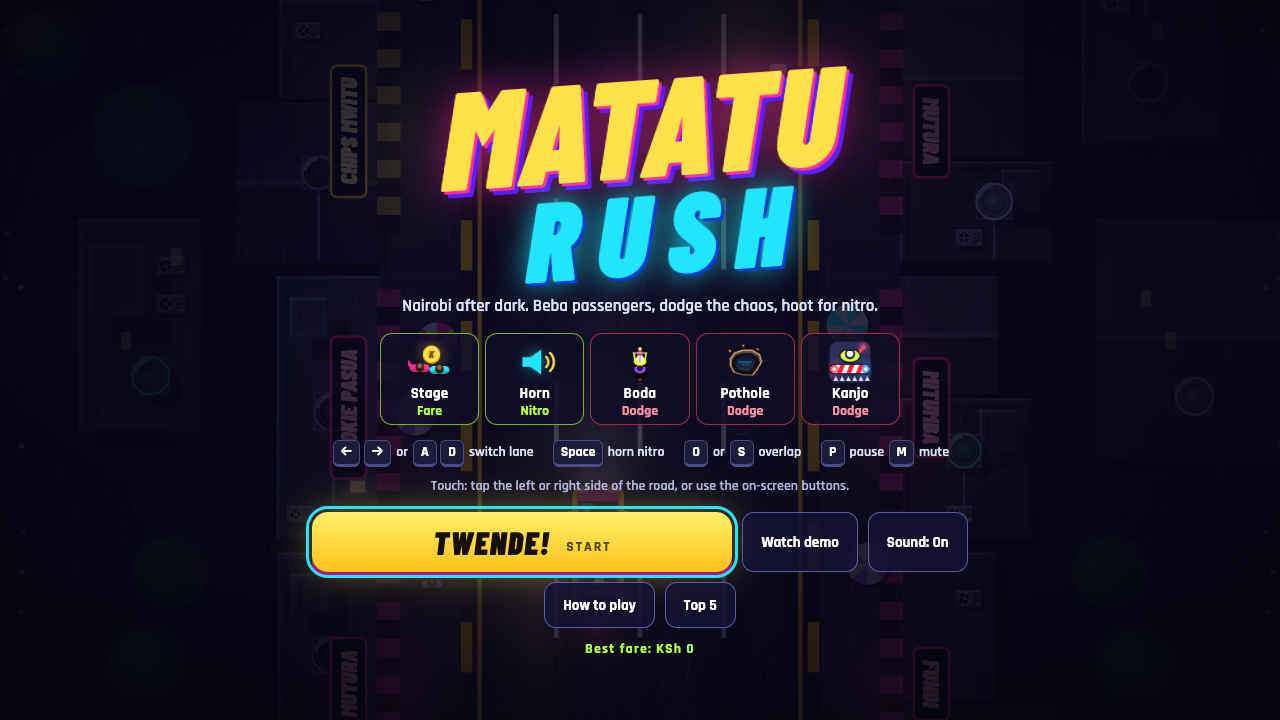
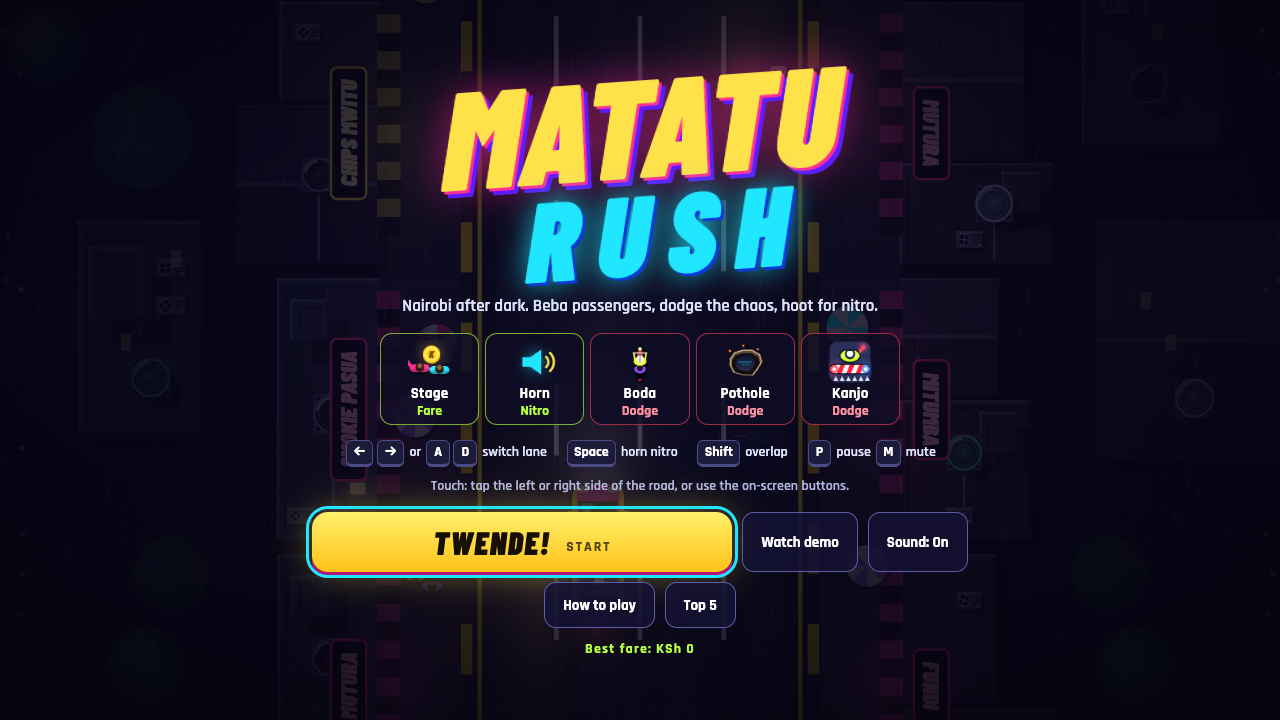
checkpoint: auto-backup 2026-11-19 11:38

diff --git a/index.html b/index.html
@@ -54,7 +54,7 @@
   <button id="btnOverlap" class="ovl" type="button" aria-label="Overlap charging">
     <i id="ovlFill"></i>
     <span id="ovlLbl" class="hl">OVERLAP</span>
-    <kbd>O</kbd>
+    <kbd>SHIFT</kbd>
   </button>
   <button id="btnRight" class="pad" type="button" aria-label="Move one lane right">
     <kbd>D</kbd><svg viewBox="0 0 24 24" aria-hidden="true"><path d="M9 4l9 8-9 8z"/></svg>
@@ -75,7 +75,7 @@
     <div class="keys" aria-label="Controls">
       <p><kbd>&larr;</kbd><kbd>&rarr;</kbd> or <kbd>A</kbd><kbd>D</kbd> switch lane</p>
       <p><kbd>Space</kbd> horn nitro</p>
-      <p><kbd>O</kbd> or <kbd>S</kbd> overlap</p>
+      <p><kbd>Shift</kbd> overlap</p>
       <p><kbd>P</kbd> pause <kbd>M</kbd> mute</p>
       <p class="touch">Touch: tap the left or right side of the road, or use the on-screen buttons.</p>
     </div>
@@ -104,7 +104,7 @@
     <div class="keys" aria-label="Controls">
       <p><kbd>&larr;</kbd><kbd>&rarr;</kbd> or <kbd>A</kbd><kbd>D</kbd> switch lane</p>
       <p><kbd>Space</kbd> horn nitro</p>
-      <p><kbd>O</kbd> or <kbd>S</kbd> overlap</p>
+      <p><kbd>Shift</kbd> overlap</p>
       <p><kbd>P</kbd> pause <kbd>M</kbd> mute</p>
       <p class="touch">Touch: tap a side of the road, or use the buttons.</p>
     </div>

diff --git a/js/main.js b/js/main.js
@@ -476,7 +476,7 @@
       if (k === ' ' || e.code === 'Space' || k === 'h' || k === 'H' || k === 'ArrowUp' || k === 'w' || k === 'W') {
         if (!e.repeat) g.input('horn', 'keyboard'); e.preventDefault(); return;
       }
-      if (k === 'o' || k === 'O' || k === 's' || k === 'S' || k === 'ArrowDown') {
+      if (k === 'Shift' || k === 'o' || k === 'O' || k === 's' || k === 'S' || k === 'ArrowDown') {
         if (!e.repeat) g.input('overlap', 'keyboard'); e.preventDefault(); return;
       }
       if (k === 'Escape' && g.autopilot) { toTitle(); e.preventDefault(); return; }

diff --git a/README.md b/README.md
@@ -18,7 +18,7 @@ Sound starts only after you press Start (or any key or tap in a run). Best score
 
 **Top 5 board.** Each device keeps its own Top 5 (`localStorage` key `matatuRush.top5`); with a configured Firebase project the board is also shared across players (see Shared Top 5 board). A run that makes the board is entered at once under an alias such as `Dere 482`. The game over screen then offers a name box (Save name or Skip, Enter saves, Escape skips; leaving without touching it keeps the alias). The title has a "Top 5" button that opens the list. Demo runs never enter the board.
 
-**Overlap.** A second power, separate from the horn. "Overlapping" is Nairobi matatu slang for leaving the road and driving along the shoulder to get past traffic. The OVERLAP meter starts empty and is charged only by passenger pickups: the first charge takes 8 pickups (0.125 each) and every later charge fills 12 percent slower than the one before (0.11 per pickup, then 0.0968, and so on). When it is full, press O, S or Down, or tap the OVERLAP button: for 4 seconds the matatu rides the shoulder on the side it was already on (from lane 0 or 1 it goes left, from lane 2 or 3 it goes right). On the shoulder nothing can hurt it and nothing can be collected (no bodas, potholes or checkpoints, no near-miss credit, no stage pickups, no fundi items); lane and horn inputs are ignored, the combo clock holds, and the matatu blinks and its bar turns red for the last 0.8 s. It then merges into the edge lane on that side with 0.9 s of grace. It cannot start during horn nitro. The demo autopilot never uses it, so seeded demos and `tests/sim-balance.cjs` behave exactly as before.
+**Overlap.** A second power, separate from the horn. "Overlapping" is Nairobi matatu slang for leaving the road and driving along the shoulder to get past traffic. The OVERLAP meter starts empty and is charged only by passenger pickups: the first charge takes 8 pickups (0.125 each) and every later charge fills 12 percent slower than the one before (0.11 per pickup, then 0.0968, and so on). When it is full, press Shift (O, S and Down also work), or tap the OVERLAP button: for 4 seconds the matatu rides the shoulder on the side it was already on (from lane 0 or 1 it goes left, from lane 2 or 3 it goes right). On the shoulder nothing can hurt it and nothing can be collected (no bodas, potholes or checkpoints, no near-miss credit, no stage pickups, no fundi items); lane and horn inputs are ignored, the combo clock holds, and the matatu blinks and its bar turns red for the last 0.8 s. It then merges into the edge lane on that side with 0.9 s of grace. It cannot start during horn nitro. The demo autopilot never uses it, so seeded demos and `tests/sim-balance.cjs` behave exactly as before.
 
 ## Shared Top 5 board (optional)
 
@@ -57,7 +57,7 @@ It needs Java 17 or newer (firebase-tools 14 runs on Java 17; version 15 asks fo
 | --- | --- | --- |
 | Switch lane | Left / Right arrows, or A / D | Tap the left or right half of the road, or the arrow buttons |
 | Horn nitro (meter must be full) | Space, H, Up or W | HORN button |
-| Overlap (meter must be full, charged by pickups) | O, S or Down | OVERLAP button |
+| Overlap (meter must be full, charged by pickups) | Shift (also O, S or Down) | OVERLAP button |
 | Pause / resume | P or Esc | Pause button (top right) |
 | Mute | M | Speaker button, or "Sound" on the title and pause screens |
 | Start / play again | Enter or Space (R also restarts) | TWENDE button |
@@ -154,7 +154,7 @@ What it does (323 checks: 242 original, 1 added static check for the three hosts
 5. Phone 390x844 with touch: start, buttons, road-side taps, horn, touch-only pickups, target sizes, pause, landscape.
 5b. Short screens: at 320x568, 360x640, 844x390, 390x844 and 1280x720 the Start button must be fully on screen with the title un-scrolled; at 320x568 and 844x390 a tap at that position starts the run, and the announcement banner's reported rectangle must not overlap the road below the HUD strip.
 5d. Layout at 320x568, 844x390, 390x844 and 1280x720: title icon row and How to play sheet fully on screen with nothing clipped and no scrolling; every visible text node at 14 px or more on the title, sheet, HUD, combo chip and pause screen; pause and mute rectangles do not touch the right lane or any tarmac; a shop strip of at least half a lane is visible on both sides; popups do not overlap; bundled fonts loaded.
-5e. OVERLAP in the browser: title and How to play text; the four control buttons fit (on screen, 44 px, no overlap, label not clipped) at 1280x720, 844x390, 320x568 and 390x844; at 1280x720 a real key-driven run fills the meter from pickups, O / S / ArrowDown answer `overlapEmpty` while charging, typing in a text box fires nothing, O fires it when full, Space and the lane keys are refused during it; at 844x390 (S), 320x568 (ArrowDown) and 390x844 (a tap on the button) a demo run is fired by the test; the button goes charging, ready, active (draining) and back with matching labels and aria-labels; the matatu is drawn outside the road rectangle and fully on screen; no hit, smash, near-miss or pickup during it; the banner and ready popup appear and no popup overlap regressions.
+5e. OVERLAP in the browser: title and How to play text; the four control buttons fit (on screen, 44 px, no overlap, label not clipped) at 1280x720, 844x390, 320x568 and 390x844; at 1280x720 a real key-driven run fills the meter from pickups, Shift / O / S / ArrowDown answer `overlapEmpty` while charging, typing in a text box fires nothing, O fires it when full, Space and the lane keys are refused during it; at 844x390 (S), 320x568 (ArrowDown) and 390x844 (a tap on the button) a demo run is fired by the test; the button goes charging, ready, active (draining) and back with matching labels and aria-labels; the matatu is drawn outside the road rectangle and fully on screen; no hit, smash, near-miss or pickup during it; the banner and ready popup appear and no popup overlap regressions.
 5c. Seed 21, real keys: a last-moment swerve past a pothole must emit `nearMiss` (no hit on that hazard, bonus paid); after taking damage, driving into the fundi spanner must emit `repair` and restore exactly one heart. Banner placement is sampled throughout.
 6. localStorage throwing on access: boot, full run, restart.
 7. Seeded autopilot demo (seed 42, autostart, no gesture) twice in the browser plus a pure Node replay of `js/game.js`: all three event logs must be identical, and no AudioContext may exist.
